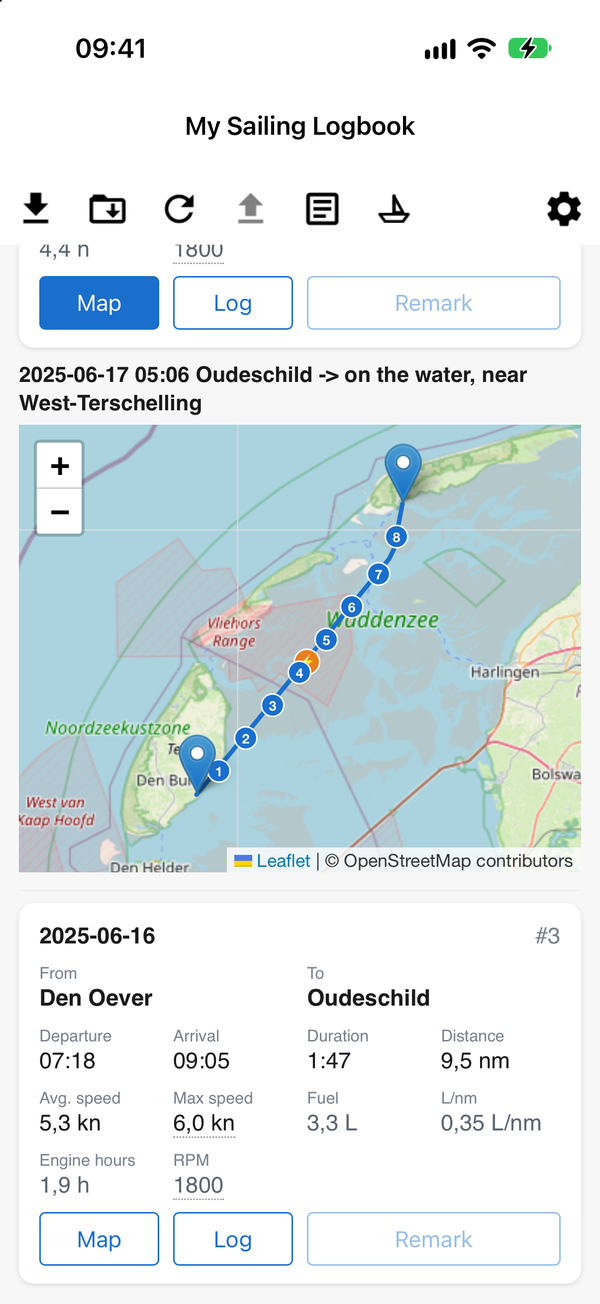
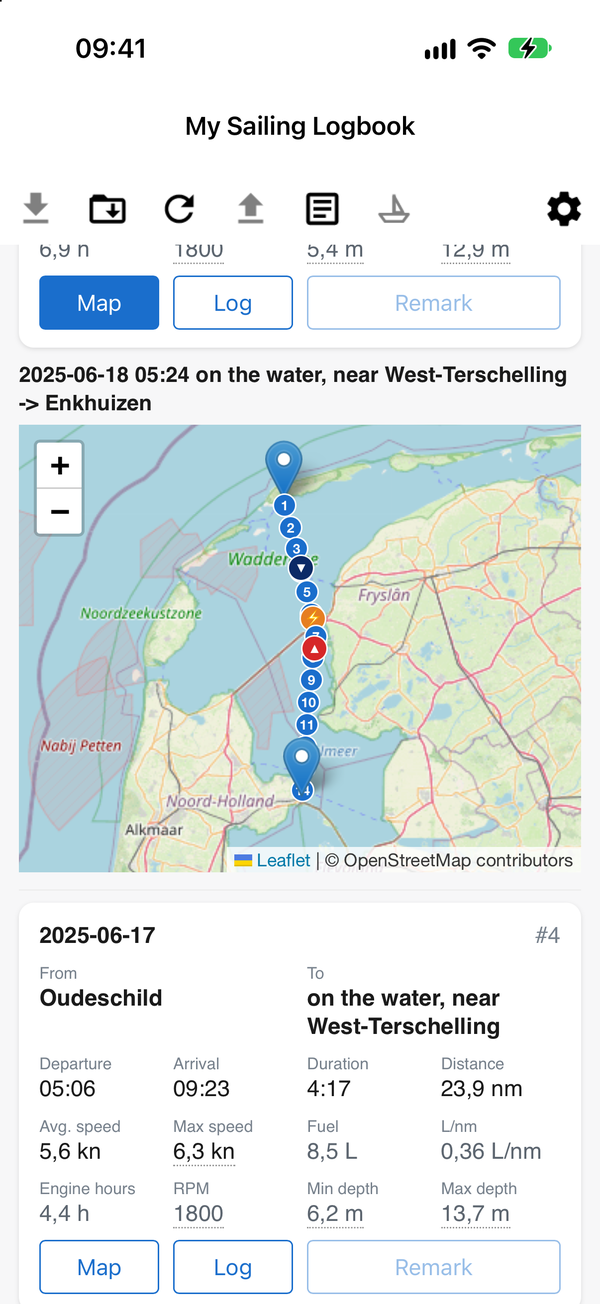
README and screenshots: the trip map marks the top speed, the shallowest and the deepest point, and the log has a depth column (with the demo data, shown from version 1.1.17)

diff --git a/README.md b/README.md
@@ -30,12 +30,12 @@ real one) -- generated with `examples/generate_demo_logbook.py` in the
 [nmea2log](https://github.com/Ayuus/nmea2log) repo.
 
 <p>
-<img src="docs/screenshots/map-trip.png" width="230" alt="The map of one trip, opened from the Map button in the trip list">
-<img src="docs/screenshots/trip-log.png" width="230" alt="The log of one trip, opened from the Log button">
+<img src="docs/screenshots/map-trip.png" width="230" alt="The map of one trip, opened from the Map button in the trip list, with its top speed, shallowest point and deepest point marked">
+<img src="docs/screenshots/trip-log.png" width="230" alt="The log of one trip, opened from the Log button, with the depth next to the position">
 <img src="docs/screenshots/map-overview.png" width="230" alt="The overview map of the year, opened from the Overview link">
 </p>
 
-*The maps in the logbook (OpenStreetMap): the **Map** button of a trip shows its route -- its **Log** button the positions, course and speed along the way, with the water temperature and the boat's motion -- the **Overview** link of a year puts all trips of that year on one map.*
+*The maps in the logbook (OpenStreetMap): the **Map** button of a trip shows its route, with the top speed (orange), the shallowest point (red) and the deepest point (dark blue) marked -- its **Log** button the positions, depth, course and speed along the way, with the water temperature and the boat's motion -- the **Overview** link of a year puts all trips of that year on one map.*
 
 <p>
 <img src="docs/screenshots/logbook.png" width="230" alt="The logbook">
